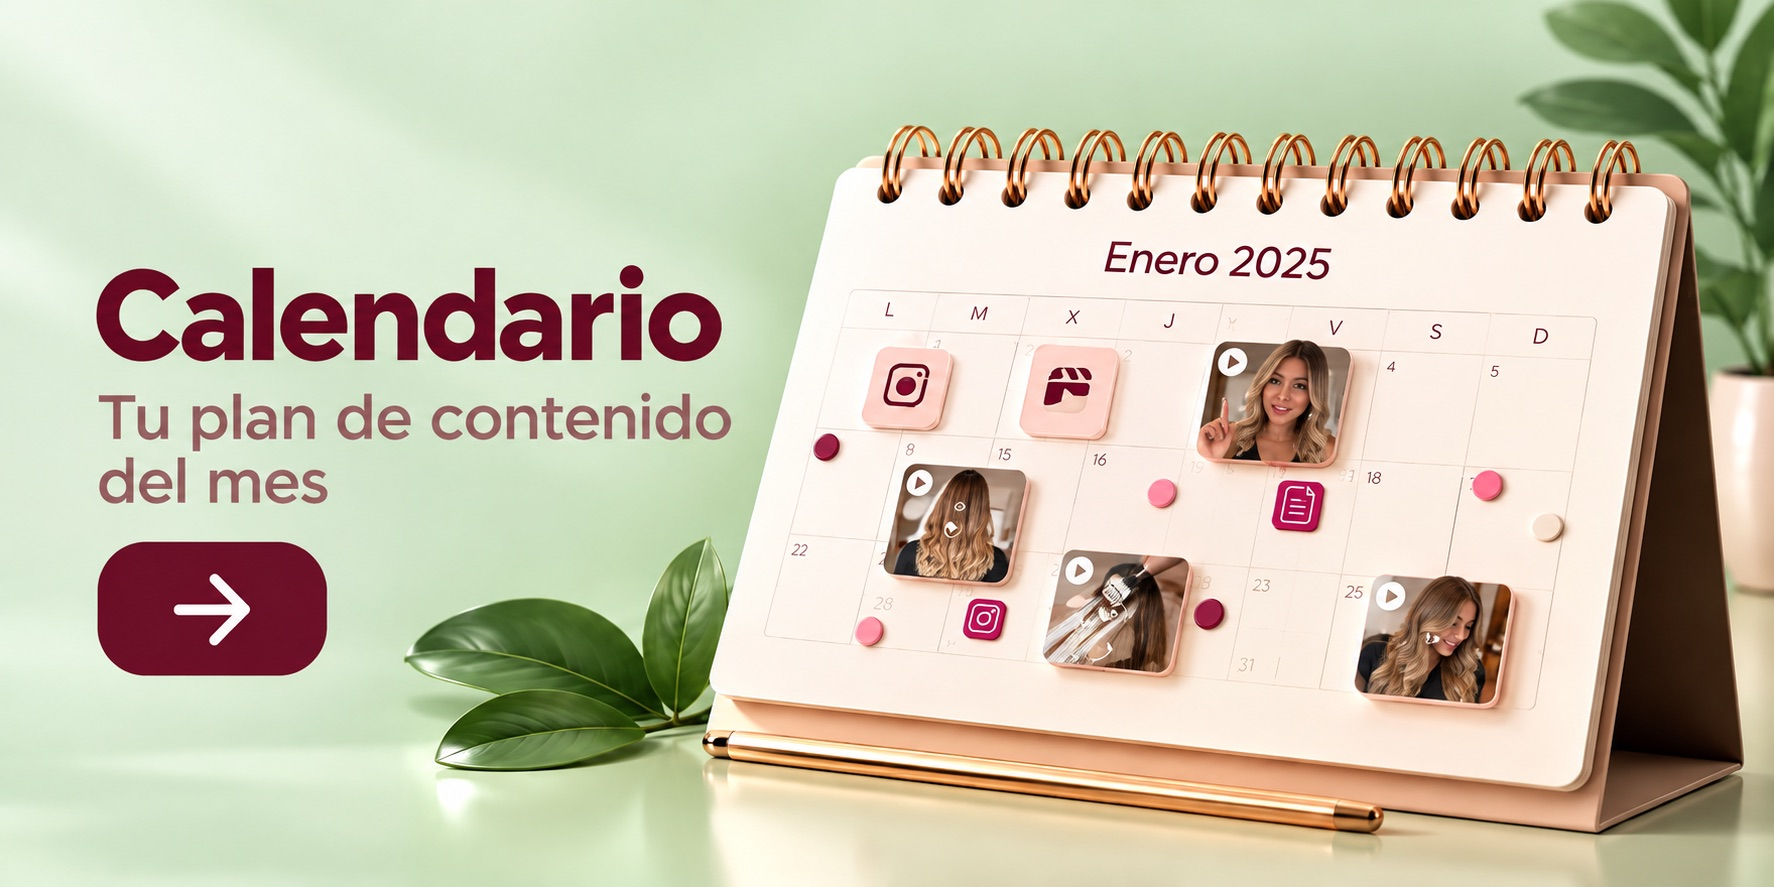
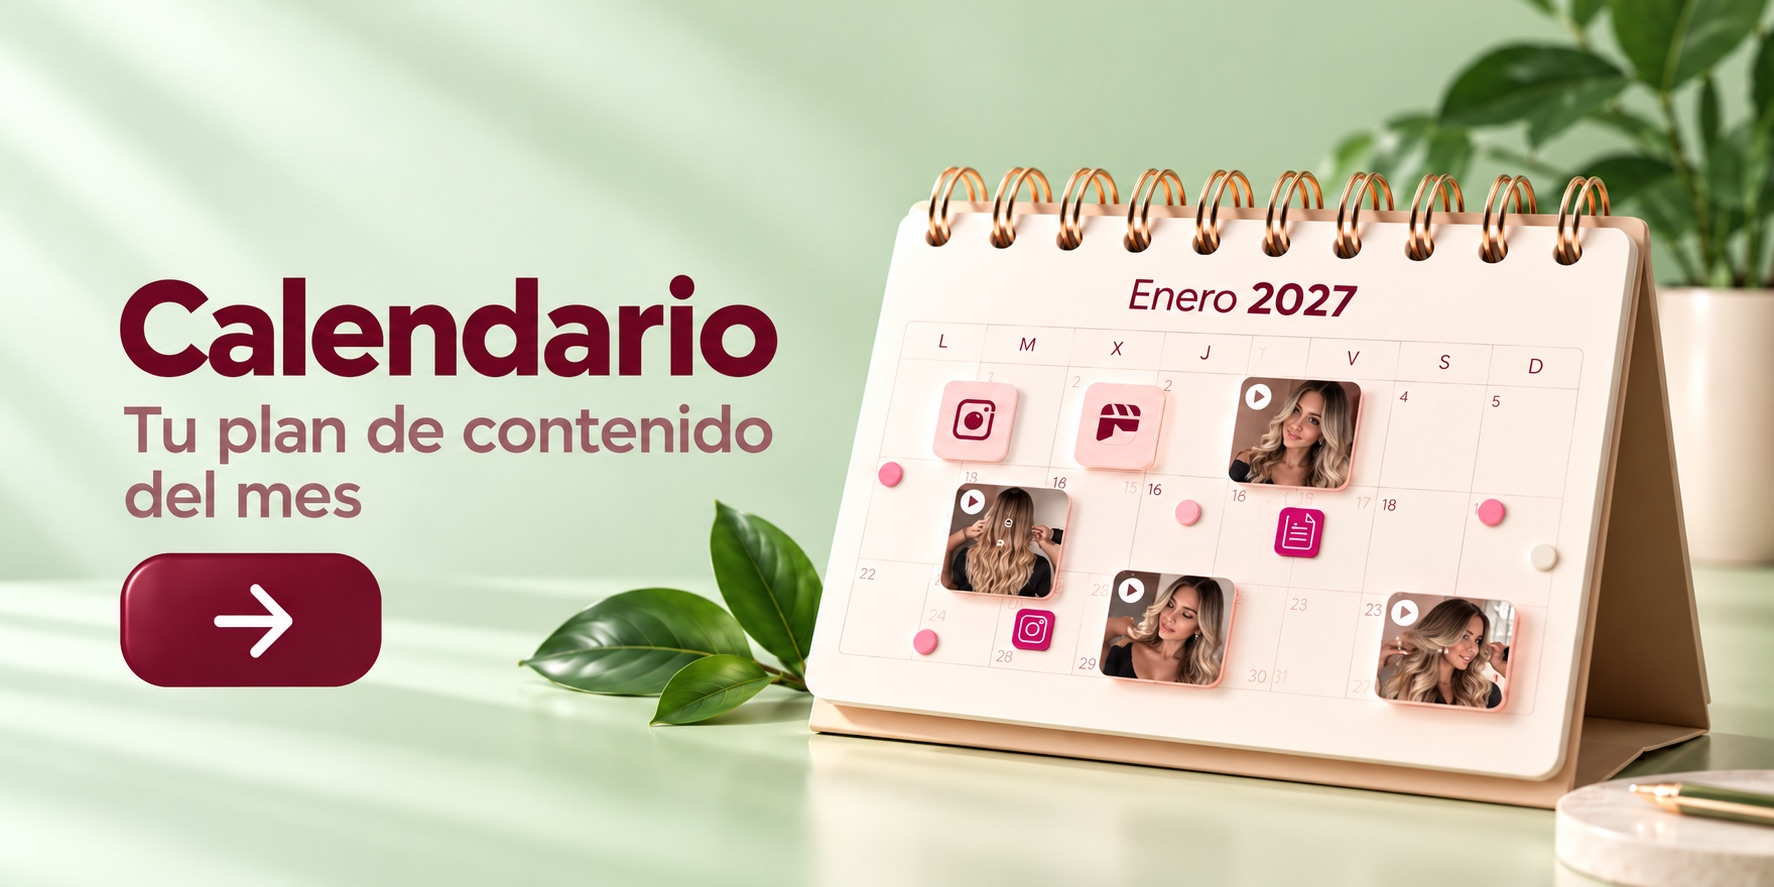
Portadas: Guiones v3, Calendario v2, Teleprompter

diff --git a/client/components/home/tiles.ts b/client/components/home/tiles.ts
@@ -9,7 +9,7 @@ export const TILES_NORMAL: AppTileProps[] = [
   { href: '/crear-contenido', icon: Film, label: 'Guiones', desc: '5 ideas → guion listo', tone: 'blue', image: '/tiles/guiones-banner.jpg' },
   { href: '/carrusel', icon: Images, label: 'Carrusel', desc: 'Carrusel listo para publicar', tone: 'green' },
   { href: '/stories', icon: LayoutGrid, label: 'Stories BRÄVE', desc: 'Stories y encuestas', tone: 'green', image: '/tiles/stories-banner.jpg', imageAspect: '1862 / 845' },
-  { href: '/teleprompter', icon: Captions, label: 'Teleprompter', desc: 'Graba hablando a cámara', tone: 'cream' },
+  { href: '/teleprompter', icon: Captions, label: 'Teleprompter', desc: 'Graba hablando a cámara', tone: 'cream', image: '/tiles/teleprompter-banner.jpg' },
   { href: '/inspiracion-reels', icon: Clapperboard, label: 'Inspiración Reels', desc: 'Ideas de reels virales', tone: 'cream' },
   { href: '/transiciones-reels', icon: Wand2, label: 'Transiciones Reels', desc: 'Efectos y transiciones', tone: 'pink' },
   { href: '/biblioteca', icon: BookOpen, label: 'Biblioteca', desc: 'Todo tu contenido', tone: 'buttermilk', image: '/tiles/biblioteca-banner.jpg' },
@@ -23,7 +23,7 @@ export const TILES_PREMIUM: AppTileProps[] = [
   { href: '/crear-contenido', icon: Film, label: 'Guiones', desc: '5 ideas → guion listo', tone: 'green', image: '/tiles/guiones-banner.jpg' },
   { href: '/carrusel', icon: Images, label: 'Carrusel', desc: 'Carrusel listo para publicar', tone: 'buttermilk' },
   { href: '/stories', icon: LayoutGrid, label: 'Stories BRÄVE', desc: 'Stories y encuestas', tone: 'cream', image: '/tiles/stories-banner.jpg', imageAspect: '1862 / 845' },
-  { href: '/teleprompter', icon: Captions, label: 'Teleprompter', desc: 'Graba hablando a cámara', tone: 'blue' },
+  { href: '/teleprompter', icon: Captions, label: 'Teleprompter', desc: 'Graba hablando a cámara', tone: 'blue', image: '/tiles/teleprompter-banner.jpg' },
   { href: '/inspiracion-reels', icon: Clapperboard, label: 'Inspiración Reels', desc: 'Ideas de reels virales', tone: 'pink' },
   { href: '/transiciones-reels', icon: Wand2, label: 'Transiciones Reels', desc: 'Efectos y transiciones', tone: 'buttermilk' },
   { href: '/academia', icon: GraduationCap, label: 'Academia', desc: 'Formación BRÄVE', tone: 'cherry' },
